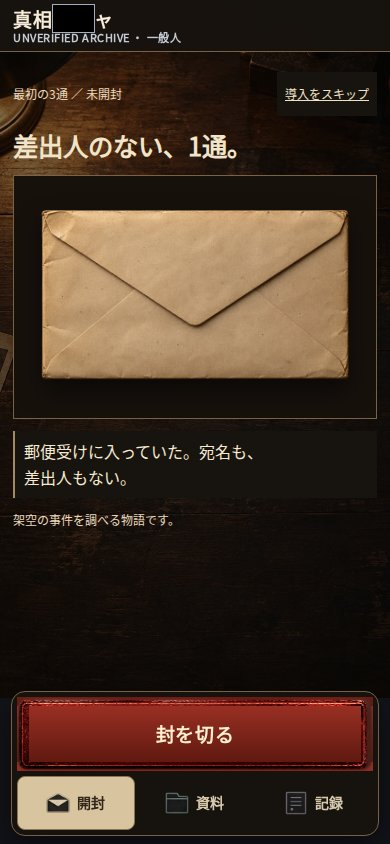
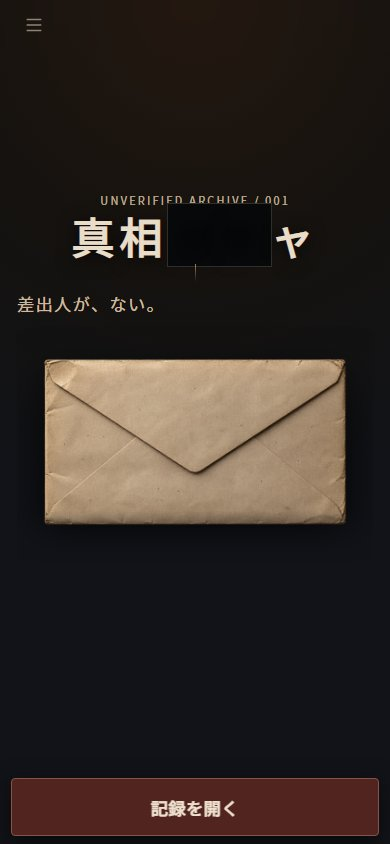
Polish opening title composition (#208)

diff --git a/assets/intro-story.js b/assets/intro-story.js
@@ -1,6 +1,6 @@
 /* Optional first-case narrative. Progress lives inside the existing saved lite state. */
 let introBusy = false;
-const introPreloadImages = [];
+const introPreloadImages = new Set();
 function introActive() {
   const i = S.lite && S.lite.intro;
   return isLite() && i && i.version === 1 && !i.done && liteTotal() <= 3;
@@ -11,23 +11,21 @@ function initIntro() {
     S.lite.intro = {version:1,step:0,done:false,revealed:false};
     markDirty();
   }
-  // Begin decoding the later scenes while the player studies the sealed envelope.
-  if (introActive() && !introPreloadImages.length) {
-    for (const name of ['station-before','station-after','station-plan']) {
-      const image = new Image();
-      image.decoding = 'async';
-      image.src = 'assets/intro/' + name + '.webp';
-      introPreloadImages.push(image);
-    }
-  }
   renderIntro();
+}
+function preloadIntroImage(name) {
+  if (introPreloadImages.has(name)) return;
+  introPreloadImages.add(name);
+  const image = new Image();
+  image.decoding = 'async';
+  image.src = 'assets/intro/' + name + '.webp';
 }
 function introImage(name, alt, cls = '') {
   return `<img class="intro-image ${cls}" src="assets/intro/${name}.webp" alt="${alt}" width="1536" height="1024">`;
 }
 function introLabel() {
   const i=S.lite.intro;
-  return ['記録を開く','写真を見直す','2通目を開く','3通目を開く',i.revealed?'記録を閉じる':'黒塗りを剥がす'][i.step] || '調査を続ける';
+  return ['封を切る','写真を見直す','2通目を開く','3通目を開く',i.revealed?'記録を閉じる':'黒塗りを剥がす'][i.step] || '調査を続ける';
 }
 function renderIntro() {
   const root=$('intro-case'); if(!root)return;
@@ -48,7 +46,11 @@ function renderIntro() {
     :`<div class="intro-note"><span>02:14 ／ 差出人のメモ</span><p>写真の人物を、数え直さないこと。</p><button class="intro-redaction" data-intro="reveal" aria-expanded="${!!i.revealed}">${i.revealed?'あなたの閲覧は、記録されています。':'黒塗りを剥がす'}</button>${'<p class="intro-sender">差出人　██████</p>'}</div>`;
   root.dataset.step=String(step);
   const titleMasthead=step===0?'<div class="intro-title-mast"><span>UNVERIFIED ARCHIVE / 001</span><div class="intro-title-wordmark" role="img" aria-label="真相ガチャ">真相<span>ガチ</span>ャ</div><i aria-hidden="true"></i></div>':'';
-  root.innerHTML=`${titleMasthead}<h1>${titles[step]}</h1><figure>${visual}${step===1||step===2?'<span class="intro-time">02:14 ／ 記録上 1人</span>':step===3?'<span class="intro-time">02:14 ／ 登録前</span>':''}</figure>${captions[step] ? `<p class="intro-caption" aria-live="polite">${captions[step]}</p>` : ""}${step===2?'<div class="intro-compare" role="group" aria-label="写真を比較"><button data-intro="before" aria-pressed="false">最初の写真</button><button data-intro="after" aria-pressed="true">もう一度見た写真</button></div>':''}`;
+  root.innerHTML=`${titleMasthead}<h1>${titles[step]}</h1><figure aria-live="polite" aria-atomic="true">${visual}${step===1||step===2?'<span class="intro-time">02:14 ／ 記録上 1人</span>':step===3?'<span class="intro-time">02:14 ／ 登録前</span>':''}</figure>${captions[step] ? `<p class="intro-caption" aria-live="polite">${captions[step]}</p>` : ""}${step===2?'<div class="intro-compare" role="group" aria-label="写真を比較"><button data-intro="before" aria-pressed="false">最初の写真</button><button data-intro="after" aria-pressed="true">もう一度見た写真</button></div>':''}`;
+  // Keep the title's first paint light. Prepare only the next scene while the
+  // player reads the current one; later scenes are never fetched up front.
+  if (step === 1) preloadIntroImage('station-after');
+  if (step === 2) preloadIntroImage('station-plan');
   $('lite-pull').textContent=introLabel(); $('lite-pull').dataset.mode='intro';
 }
 function advanceIntro() {

diff --git a/assets/intro-story.css b/assets/intro-story.css
@@ -73,6 +73,12 @@ body.lite.intro-quiet #intro-case *,body.lite.intro-quiet #intro-case *::before,
 
 /* Sparse introduction: the envelope is an object, not an information panel. */
 body.intro-active #intro-case[data-step="0"] { padding-top:26px; gap:10px; }
+/* Give the title scene a deliberate stage above the fixed opening action.
+   Keep the envelope centered in the available reading area on tall and short phones. */
+body.intro-active #intro-case[data-step="0"] {
+  min-height:calc(100dvh - 162px - env(safe-area-inset-bottom,0px));
+  align-content:center;
+}
 body.intro-active #intro-case[data-step="0"] .intro-title-mast { gap:5px; }
 body.intro-active #intro-case[data-step="0"] > h1 { color:#c8b99f; font-size:clamp(15px,4.4vw,19px); font-weight:500; letter-spacing:.08em; }
 body.intro-active #intro-case[data-step="0"] figure { border:0; background:transparent; box-shadow:none; }
@@ -102,4 +108,5 @@ body.intro-active header.top #game-menu #menu-dot { display:none!important; }
 
 /* Make every new document heading clear of the fixed-height introductory menu. */
 body.intro-active #intro-case,body.intro-active #intro-case[data-step="0"]{padding-top:50px}
-@media(max-height:700px){body.intro-active #intro-case,body.intro-active #intro-case[data-step="0"]{padding-top:42px}body.intro-active #intro-case .intro-image{max-height:30dvh}body.intro-active #intro-case[data-step="0"] .intro-title-wordmark{font-size:38px}body.intro-active #intro-case[data-step="0"] .intro-title-mast i{height:10px}}
+@media(max-height:700px){body.intro-active #intro-case,body.intro-active #intro-case[data-step="0"]{padding-top:42px}body.intro-active #intro-case[data-step="0"]{min-height:calc(100dvh - 142px - env(safe-area-inset-bottom,0px))}body.intro-active #intro-case .intro-image{max-height:30dvh}body.intro-active #intro-case[data-step="0"] .intro-title-wordmark{font-size:38px}body.intro-active #intro-case[data-step="0"] .intro-title-mast i{height:10px}}
+@media(max-height:700px) and (orientation:landscape){body.intro-active #intro-case[data-step="0"]{padding-top:36px;gap:8px}}

diff --git a/docs/INTRODUCTION.md b/docs/INTRODUCTION.md
@@ -13,9 +13,9 @@
 
 ## 体験
 
-1. 黒塗りのロゴと未確認アーカイブ番号が置かれたタイトル画面。封筒の「記録を開く」から物語へ入る。
+1. 黒塗りのロゴと未確認アーカイブ番号が置かれたタイトル画面。タイトルと封筒を操作領域上の縦余白に配置し、封筒の「封を切る」から物語へ入る。
 2. 駅の写真を読む。「写真をもう一度見る」で人影が増える。比較ボタンで前後を自由に確認。
-3. 2通目の構内図。写真で増えた人物と同じ場所に赤い印。
+3. 2通目の構内図。写真で増えた人物と同じ場所に赤い印。写真の切替は選択中の画像説明も更新し、スクリーンリーダーへ通知する。
 4. 3通目のメモ。黒塗りを押すと「こちらで、あなたを保護します。／第六文書課」が現れる。
 5. 記録を保管し、既存の一般人編へ。後の危険段階・職員介入に伏線をつなぐ。
 
@@ -24,7 +24,8 @@
 ## 保存と既存機能
 
 - `S.lite.intro` に version/step/revealed/done/completed/skipped を保存。既存の localStorage/Firebase保存境界をそのまま使う。
-- 新規の一般人（断片0、導入状態なし）だけタイトル表現つきの最初の場面を表示。最初の「記録を開く」で物語へ進み、途中の一般人・調査員には導入を強制しない。
+- 導入開始時はタイトルに必要な封筒だけを表示し、写真・構内図は物語の進行に合わせて先読みする。最初の写真を読んでいる間に比較用の写真、比較中に構内図を準備し、未到達の後続画像で初回表示の通信を圧迫しない。
+- 新規の一般人（断片0、導入状態なし）だけタイトル表現つきの最初の場面を表示。最初の「封を切る」で物語へ進み、途中の一般人・調査員には導入を強制しない。
 - 導入中は通常のお知らせ・メールの未読ドットだけを視覚的に抑え、メニューから設定・通知を引き続き開ける。通知状態や読み上げラベルは変更せず、導入終了後は通常表示へ戻る。
 - 封筒3通を開く操作だけ既存 `litePull()` を呼ぶ。通常の抽選プールから各1断片を収集し、開封数は合計3増える。物語の事件記録は通常コレクションとは別に再閲覧できる。
 - 比較、黒塗り解除、スキップ、再閲覧に報酬なし。連打防止を設ける。導入中は通常のランダム通知が割り込まない。
@@ -45,7 +46,7 @@
 
 ## 検証
 
-`tests/intro.cjs`: 新規・既存ユーザー、320/390/430px、写真比較、3回分だけの開封、リロード復帰、黒塗り、スキップ・再閲覧、33断片の介入・36断片の面接、連打、画像デコード。既存のsmoke/photoreal/dossier-uiも併用。Firebaseは既存アダプターのスタブ検証で、実ユーザーの保存には書き込まない。実機Safari・導入離脱率の実測は未検証。
+`tests/intro.cjs`: 新規・既存ユーザー、320/390/430pxのタイトルと封筒の視覚中心・CTA分離、844×390横画面での到達性、導入画像の段階読み込み、写真比較、3回分だけの開封、リロード復帰、黒塗り、スキップ・再閲覧、33断片の介入・36断片の面接、連打、画像デコード。既存のsmoke/photoreal/dossier-uiも併用。Firebaseは既存アダプターのスタブ検証で、実ユーザーの保存には書き込まない。実機Safari・導入離脱率の実測は未検証。
 
 画面: `docs/qa-intro/`。代表場面は `overview.jpg`。
 
